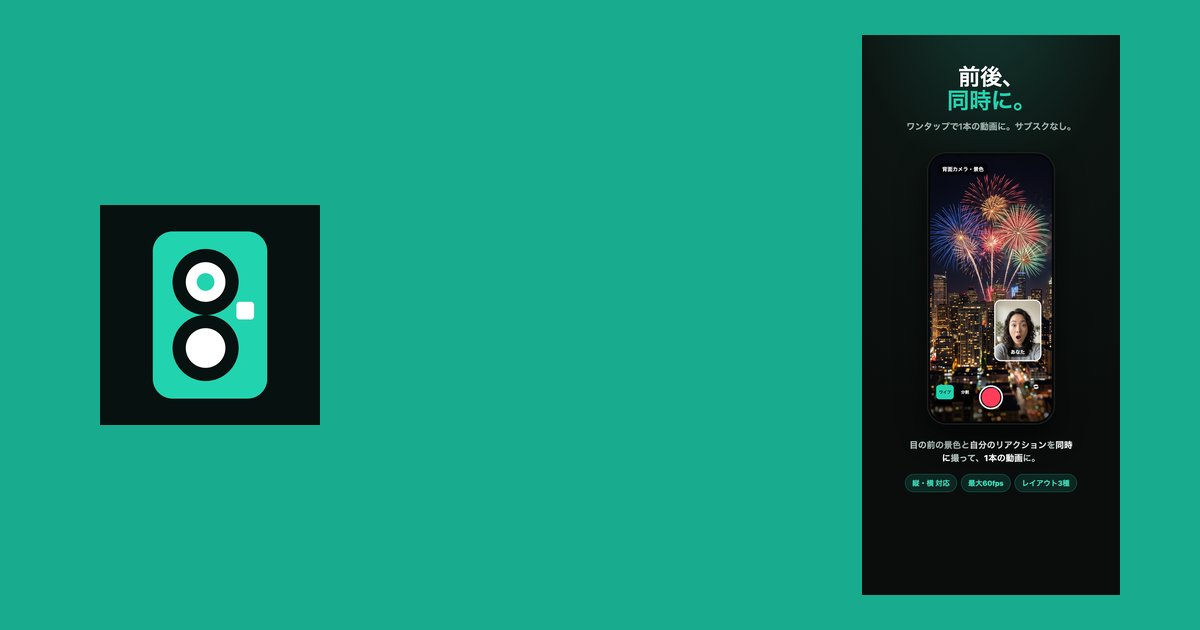
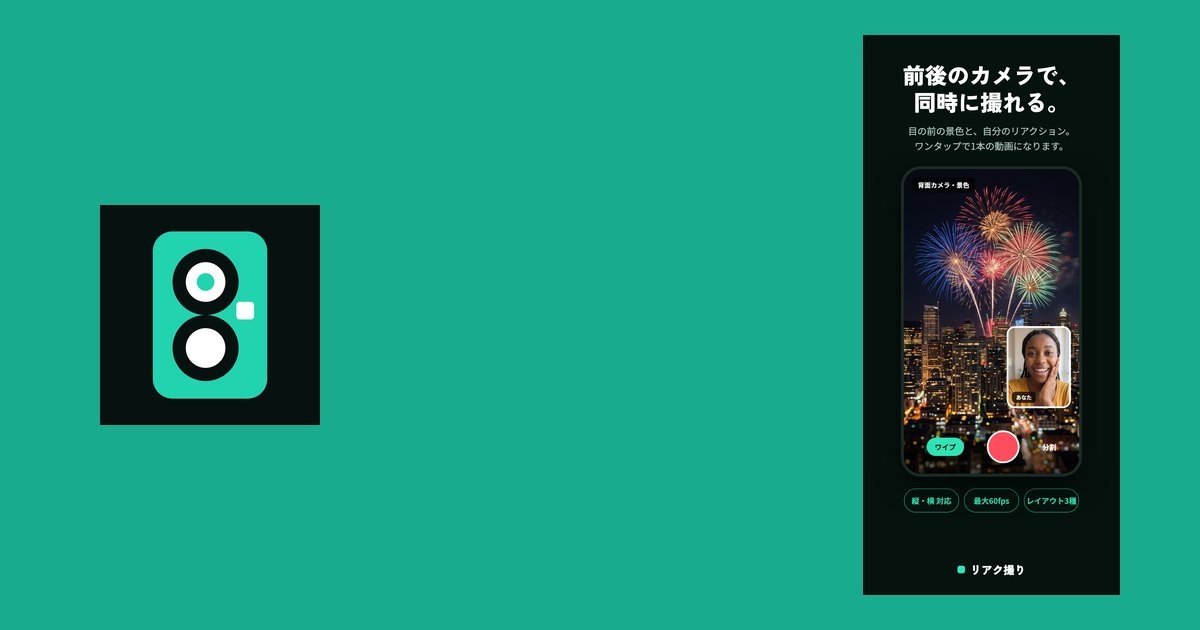
lp: 証明写真ぴったり／リアク撮り のストア掲載画像更新を反映

Changed region(s): [[0.74, 0.0302, 0.925, 0.8143], [0.8017, 0.8746, 0.8633, 0.9349]]

diff --git a/idphotofit/index.html b/idphotofit/index.html
@@ -1,0 +1,176 @@
+<!DOCTYPE html>
+<html lang="ja">
+<head>
+<meta charset="UTF-8">
+<meta name="viewport" content="width=device-width, initial-scale=1.0">
+<title>証明写真ぴったり｜iPhoneアプリ</title>
+<meta name="description" content="顔を自動で検出して、頭のてっぺんから顎までの長さと頭上の余白を、選んだサイズ規格に合わせて調整します。よく使う各種のサイズプリセットを収録。L判1枚に面付けしてコンビニでプリントできます。広告なし・買い切り・端末内で完結。">
+<link rel="canonical" href="https://madeinchimpanzee.github.io/app-legal/idphotofit/">
+<link rel="icon" href="img/icon.png">
+<link rel="apple-touch-icon" href="img/icon.png">
+<meta name="google-site-verification" content="sShjuGj1yH0nU52rMidScKj6U2jCQEzeScjimU436s0">
+<script defer src="https://static.cloudflareinsights.com/beacon.min.js" data-cf-beacon='{"token": "19cc6d39518c47219628c5f1152f72c9"}'></script>
+<meta property="og:type" content="website">
+<meta property="og:title" content="証明写真ぴったり｜iPhoneアプリ">
+<meta property="og:description" content="顔を自動で検出して、頭のてっぺんから顎までの長さと頭上の余白を、選んだサイズ規格に合わせて調整します。よく使う各種のサイズプリセットを収録。L判1枚に面付けしてコンビニでプリントできます。広告なし・買い切り・端末内で完結。">
+<meta property="og:url" content="https://madeinchimpanzee.github.io/app-legal/idphotofit/">
+<meta property="og:image" content="https://madeinchimpanzee.github.io/app-legal/idphotofit/img/og.jpg">
+<meta property="og:locale" content="ja_JP">
+<meta name="twitter:card" content="summary_large_image">
+<meta name="apple-itunes-app" content="app-id=6792667067">
+<script type="application/ld+json">{"@context": "https://schema.org", "@type": "SoftwareApplication", "name": "証明写真ぴったり", "operatingSystem": "iOS", "applicationCategory": "MobileApplication", "description": "顔を自動で検出して、頭のてっぺんから顎までの長さと頭上の余白を、選んだサイズ規格に合わせて調整します。よく使う各種のサイズプリセットを収録。L判1枚に面付けしてコンビニでプリントできます。広告なし・買い切り・端末内で完結。", "image": "https://madeinchimpanzee.github.io/app-legal/idphotofit/img/icon.png", "url": "https://madeinchimpanzee.github.io/app-legal/idphotofit/", "installUrl": "https://apps.apple.com/jp/app/id6792667067?ct=lp", "offers": {"@type": "Offer", "price": "0", "priceCurrency": "JPY"}, "author": {"@type": "Organization", "name": "MadeInChimpanzee"}}</script>
+<script type="application/ld+json">{"@context": "https://schema.org", "@type": "FAQPage", "mainEntity": [{"@type": "Question", "name": "料金はかかりますか？", "acceptedAnswer": {"@type": "Answer", "text": "無料"}}, {"@type": "Question", "name": "入力したデータはどこに保存されますか？", "acceptedAnswer": {"@type": "Answer", "text": "お使いの iPhone の中にのみ保存されます。アカウント登録もログインも不要です。"}}, {"@type": "Question", "name": "対応機種は？", "acceptedAnswer": {"@type": "Answer", "text": "iPhone（App Store から入手）。"}}, {"@type": "Question", "name": "問い合わせ先は？", "acceptedAnswer": {"@type": "Answer", "text": "メール suportapps44@gmail.com までご連絡ください。"}}]}</script>
+<style>
+:root{--accent:#0056CB;--accent-dark:#00439E;--accent-tint:#E0EAF8;--ink:#1F2430;--muted:#5F6673;--line:#E6E8EC;--bg:#FFFFFF}
+*{box-sizing:border-box;margin:0;padding:0}
+html{scroll-behavior:smooth}
+body{font-family:-apple-system,BlinkMacSystemFont,"Hiragino Sans","Hiragino Kaku Gothic ProN","Noto Sans JP",sans-serif;color:var(--ink);background:var(--bg);line-height:1.8;-webkit-font-smoothing:antialiased}
+a{color:var(--accent-dark)}
+.wrap{max-width:960px;margin:0 auto;padding:0 20px}
+header.top{position:sticky;top:0;background:rgba(255,255,255,.92);backdrop-filter:saturate(180%) blur(12px);border-bottom:1px solid var(--line);z-index:10}
+header.top .wrap{display:flex;align-items:center;gap:12px;height:60px}
+header.top img{width:36px;height:36px;border-radius:9px}
+header.top .name{font-weight:700;font-size:15px;flex:1;white-space:nowrap;overflow:hidden;text-overflow:ellipsis}
+.btn{display:inline-flex;align-items:center;gap:8px;background:var(--accent);color:#fff;text-decoration:none;font-weight:700;padding:10px 18px;border-radius:999px;font-size:14px;box-shadow:0 8px 20px -10px var(--accent)}
+.btn:hover{background:var(--accent-dark)}
+.btn svg{width:16px;height:16px;fill:#fff}
+.hero{background:linear-gradient(180deg,var(--accent-tint),#fff 70%);padding:48px 0 32px}
+.hero .wrap{display:grid;grid-template-columns:1.1fr .9fr;gap:36px;align-items:center}
+.hero .icon{width:96px;height:96px;border-radius:22px;box-shadow:0 12px 30px -12px rgba(0,0,0,.35);margin-bottom:18px}
+.hero h1{font-size:30px;line-height:1.35;letter-spacing:.01em;margin-bottom:8px}
+.hero .sub{color:var(--accent-dark);font-weight:700;font-size:17px;margin-bottom:16px}
+.hero .lead{color:var(--muted);font-size:15px;margin-bottom:22px}
+.hero .price{font-size:13px;color:var(--muted);margin-top:12px}
+.hero .phone{justify-self:center;width:min(300px,80vw);border-radius:36px;overflow:hidden;box-shadow:0 30px 60px -28px rgba(0,0,0,.45);border:6px solid #23242A;background:#23242A}
+.hero .phone img{display:block;width:100%}
+section{padding:40px 0}
+section h2{font-size:22px;margin-bottom:18px;padding-left:14px;border-left:5px solid var(--accent);line-height:1.4}
+.cards{display:grid;grid-template-columns:repeat(auto-fit,minmax(260px,1fr));gap:14px}
+.card{background:#fff;border:1px solid var(--line);border-radius:16px;padding:18px 18px 16px;box-shadow:0 6px 18px -12px rgba(0,0,0,.18)}
+.card h3{font-size:16px;margin-bottom:6px;color:var(--accent-dark)}
+.card p{font-size:14px;color:var(--muted)}
+.shots{display:flex;gap:16px;overflow-x:auto;padding:8px 4px 18px;scroll-snap-type:x mandatory;-webkit-overflow-scrolling:touch}
+.shot{flex:0 0 auto;width:220px;scroll-snap-align:start;border-radius:22px;overflow:hidden;box-shadow:0 14px 30px -18px rgba(0,0,0,.45);border:1px solid var(--line)}
+.shot img{display:block;width:100%;height:auto}
+.detail{background:#FAFBFC;border-radius:18px;padding:22px 22px 8px;border:1px solid var(--line)}
+.detail h2{font-size:18px;margin:22px 0 10px;border:0;padding:0;color:var(--accent-dark)}
+.detail h2:first-child{margin-top:0}
+.detail h3{font-size:15px;margin:14px 0 4px}
+.detail p,.detail li{font-size:14.5px;color:#333;margin-bottom:10px}
+.detail ul{padding-left:1.3em;margin-bottom:10px}
+.detail .note{font-size:12.5px;color:var(--muted)}
+details{border-bottom:1px solid var(--line);padding:12px 4px}
+summary{cursor:pointer;font-weight:700;font-size:15px;list-style:none;display:flex;justify-content:space-between;align-items:center}
+summary::after{content:"＋";color:var(--accent);font-weight:400}
+details[open] summary::after{content:"－"}
+details p{font-size:14px;color:var(--muted);padding:8px 0 4px}
+.cta{background:var(--accent-tint);border-radius:22px;padding:34px 22px;text-align:center}
+.cta h2{border:0;padding:0;display:block;margin-bottom:10px;font-size:22px}
+.cta p{color:var(--muted);font-size:14px;margin-bottom:18px}
+.kw{display:flex;flex-wrap:wrap;gap:6px;margin-top:14px}
+.kw span{font-size:11.5px;color:var(--muted);background:#F1F3F6;border-radius:999px;padding:3px 10px}
+footer{border-top:1px solid var(--line);padding:26px 0 40px;font-size:13px;color:var(--muted)}
+footer .links a{margin-right:14px}
+footer .notice{font-size:11.5px;margin-top:10px}
+@media (max-width:720px){
+  .hero{padding:30px 0 20px}
+  .hero .wrap{grid-template-columns:1fr;gap:26px}
+  .hero h1{font-size:24px}
+  .hero .phone{width:min(260px,72vw)}
+  header.top .cta-top{display:none}
+}
+</style>
+</head>
+<body>
+<header class="top"><div class="wrap">
+  <img src="img/icon.png" alt="" width="36" height="36">
+  <span class="name">証明写真ぴったり</span>
+  <a class="btn cta-top" href="https://apps.apple.com/jp/app/id6792667067?ct=lp" rel="noopener">App Store で見る</a>
+</div></header>
+
+<section class="hero"><div class="wrap">
+  <div>
+    <img class="icon" src="img/icon.png" alt="証明写真ぴったり のアイコン" width="96" height="96">
+    <h1>証明写真ぴったり</h1>
+    <p class="sub">規格ぴったりに自動調整、広告なし</p>
+    <p class="lead">顔を自動で検出して、頭のてっぺんから顎までの長さと頭上の余白を、選んだサイズ規格に合わせて調整します。よく使う各種のサイズプリセットを収録。L判1枚に面付けしてコンビニでプリントできます。広告なし・買い切り・端末内で完結。</p>
+    <a class="btn" href="https://apps.apple.com/jp/app/id6792667067?ct=lp" rel="noopener"><svg viewBox="0 0 24 24" aria-hidden="true"><path d="M16.7 12.6c0-2.6 2.1-3.8 2.2-3.9-1.2-1.8-3.1-2-3.7-2-1.6-.2-3.1.9-3.9.9-.8 0-2-.9-3.3-.9-1.7 0-3.3 1-4.2 2.5-1.8 3.1-.5 7.8 1.3 10.3.9 1.2 1.9 2.6 3.2 2.6 1.3-.1 1.8-.8 3.3-.8s2 .8 3.3.8c1.4 0 2.3-1.3 3.1-2.5 1-1.4 1.4-2.8 1.4-2.9-.1 0-2.7-1-2.7-4.1zM14.2 5c.7-.8 1.1-2 1-3.1-1 0-2.2.7-2.9 1.5-.6.7-1.2 1.9-1 3 1.1.1 2.2-.5 2.9-1.4z"/></svg>App Store からダウンロード</a>
+    <p class="price">無料</p>
+  </div>
+  <div class="phone"><img src="img/ss-03.jpg" alt="証明写真ぴったり の画面" width="540"></div>
+</div></section>
+
+<section><div class="wrap">
+  <h2>できること</h2>
+  <div class="cards">
+
+  </div>
+</div></section>
+
+<section><div class="wrap">
+  <h2>画面</h2>
+  <div class="shots">
+<figure class="shot"><img src="img/ss-01.jpg" alt="証明写真ぴったり の画面 1" loading="eager" width="540"></figure>
+<figure class="shot"><img src="img/ss-02.jpg" alt="証明写真ぴったり の画面 2" loading="lazy" width="540"></figure>
+<figure class="shot"><img src="img/ss-03.jpg" alt="証明写真ぴったり の画面 3" loading="lazy" width="540"></figure>
+<figure class="shot"><img src="img/ss-04.jpg" alt="証明写真ぴったり の画面 4" loading="lazy" width="540"></figure>
+<figure class="shot"><img src="img/ss-05.jpg" alt="証明写真ぴったり の画面 5" loading="lazy" width="540"></figure>
+<figure class="shot"><img src="img/ss-06.jpg" alt="証明写真ぴったり の画面 6" loading="lazy" width="540"></figure>
+<figure class="shot"><img src="img/ss-07.jpg" alt="証明写真ぴったり の画面 7" loading="lazy" width="540"></figure>
+  </div>
+</div></section>
+
+<section><div class="wrap">
+  <h2>詳しく</h2>
+  <div class="detail">
+<p>証明写真を、規格のサイズにきっちり合わせて印刷できるようにする写真調整アプリです。</p>
+<p>証明写真は、写真の寸法だけでなく「頭のてっぺんから顎までの長さ」「頭の上の余白」まで細かく決まっている場合があります。証明写真ぴったりは、顔を自動で検出して、選んだサイズプリセットが求める位置に写真を合わせます。頭のてっぺんと顎がどこと判定されたかを画面に線で表示するので、アプリが何を測っているのかが目で見えます。</p>
+<h2>できること</h2>
+<ul>
+<li>顔と頭のてっぺんを自動検出し、選んだサイズに合わせて自動でトリミング</li>
+<li>頭のてっぺん・顎の位置と、頭上の余白の許容範囲を画面に表示</li>
+<li>サイズに合っているかを常時チェック。ずれていれば「あと何ミリか」を表示</li>
+<li>1ミリ単位での位置調整と、顔の大きさの微調整</li>
+<li>背景を白・青・グレーに差し替え</li>
+<li>L判1枚に面付けして、コンビニのプリンタでそのまま印刷</li>
+</ul>
+<h2>収録しているサイズプリセット</h2>
+<p>一般的な証明写真／パスポート／履歴書／履歴書(小)／資格・受験／受験(小)／宅建試験／看護師国家試験 など</p>
+<h2>寸法の数値について</h2>
+<p>各サイズの寸法は、公表されている一般的な情報をもとにしています。数値の定めがない項目については、勝手に基準を作らず「規定なし」として扱い、代わりに実際に問われる要件をお伝えします。</p>
+<h2>安心して使えます</h2>
+<ul>
+<li>撮影・選択した写真は、すべて端末の中だけで処理します。外部に送信しません</li>
+<li>ログイン不要。アカウント登録もありません</li>
+<li>広告は一切表示しません</li>
+<li>買い切りです。月額料金はありません</li>
+</ul>
+<h2>ご注意</h2>
+<p>本アプリは、手持ちの写真を一般的な規格サイズに合わせて調整・印刷するための補助ツールです。証明写真の要件は提出先や時期によって異なる場合があります。提出前には必ず、提出先が公開している最新の要項をご確認ください。本アプリは提出先での受理を保証するものではありません。</p>
+  </div>
+</div></section>
+
+<section><div class="wrap">
+  <h2>よくある質問</h2>
+<details><summary>料金はかかりますか？</summary><p>無料</p></details>
+<details><summary>入力したデータはどこに保存されますか？</summary><p>お使いの iPhone の中にのみ保存されます。アカウント登録もログインも不要です。</p></details>
+<details><summary>対応機種は？</summary><p>iPhone（App Store から入手）。</p></details>
+<details><summary>問い合わせ先は？</summary><p>メール suportapps44@gmail.com までご連絡ください。</p></details>
+</div></section>
+
+<section><div class="wrap">
+  <div class="cta">
+    <h2>証明写真ぴったり を使ってみる</h2>
+    <p>無料</p>
+    <a class="btn" href="https://apps.apple.com/jp/app/id6792667067?ct=lp" rel="noopener">App Store からダウンロード</a>
+  </div>
+  <div class="kw"><span>証明写真</span> <span>履歴書</span> <span>パスポート</span> <span>宅建</span> <span>看護師</span> <span>写真</span> <span>サイズ</span> <span>規格</span> <span>就活</span> <span>受験</span> <span>トリミング</span> <span>背景</span></div>
+</div></section>
+
+<footer><div class="wrap">
+  <p class="links"><a href="privacy.html">プライバシーポリシー</a><a href="terms.html">利用規約</a><a href="support.html">サポート</a><a href="../apps/">アプリ一覧</a></p>
+  <p>© 2026 MadeInChimpanzee. Apple、App Store は Apple Inc. の商標です。</p>
+  <p class="notice">このページはアクセス数の把握のため Cloudflare Web Analytics を利用しています（閲覧ページ・参照元・おおよその地域などが送信されます。個人を特定する情報は含みません）。</p>
+</div></footer>
+</body>
+</html>

diff --git a/reacdori/index.html b/reacdori/index.html
@@ -19,7 +19,7 @@
 <meta name="twitter:card" content="summary_large_image">
 <meta name="apple-itunes-app" content="app-id=6788761561">
 <script type="application/ld+json">{"@context": "https://schema.org", "@type": "SoftwareApplication", "name": "リアク撮り 前後カメラ同時録画", "operatingSystem": "iOS", "applicationCategory": "MobileApplication", "description": "前後カメラを同時録画して1本の動画に。基本無料・サブスクなし。買い切りで時間無制限＋「動画にリアクション」。", "image": "https://madeinchimpanzee.github.io/app-legal/reacdori/img/icon.png", "url": "https://madeinchimpanzee.github.io/app-legal/reacdori/", "installUrl": "https://apps.apple.com/jp/app/id6788761561?ct=lp", "offers": {"@type": "Offer", "price": "0", "priceCurrency": "JPY"}, "author": {"@type": "Organization", "name": "MadeInChimpanzee"}}</script>
-<script type="application/ld+json">{"@context": "https://schema.org", "@type": "FAQPage", "mainEntity": [{"@type": "Question", "name": "料金はかかりますか？", "acceptedAnswer": {"@type": "Answer", "text": "買い切り ¥600（サブスクではありません）。"}}, {"@type": "Question", "name": "入力したデータはどこに保存されますか？", "acceptedAnswer": {"@type": "Answer", "text": "お使いの iPhone の中にのみ保存されます。アカウント登録もログインも不要です。"}}, {"@type": "Question", "name": "対応機種は？", "acceptedAnswer": {"@type": "Answer", "text": "iPhone（App Store から入手）。"}}, {"@type": "Question", "name": "問い合わせ先は？", "acceptedAnswer": {"@type": "Answer", "text": "メール suportapps44@gmail.com までご連絡ください。"}}]}</script>
+<script type="application/ld+json">{"@context": "https://schema.org", "@type": "FAQPage", "mainEntity": [{"@type": "Question", "name": "料金はかかりますか？", "acceptedAnswer": {"@type": "Answer", "text": "無料"}}, {"@type": "Question", "name": "入力したデータはどこに保存されますか？", "acceptedAnswer": {"@type": "Answer", "text": "お使いの iPhone の中にのみ保存されます。アカウント登録もログインも不要です。"}}, {"@type": "Question", "name": "対応機種は？", "acceptedAnswer": {"@type": "Answer", "text": "iPhone（App Store から入手）。"}}, {"@type": "Question", "name": "問い合わせ先は？", "acceptedAnswer": {"@type": "Answer", "text": "メール suportapps44@gmail.com までご連絡ください。"}}]}</script>
 <style>
 :root{--accent:#19AB8E;--accent-dark:#13856E;--accent-tint:#E3F4F1;--ink:#1F2430;--muted:#5F6673;--line:#E6E8EC;--bg:#FFFFFF}
 *{box-sizing:border-box;margin:0;padding:0}
@@ -95,7 +95,7 @@ footer .notice{font-size:11.5px;margin-top:10px}
     <p class="sub">両面をワイプ・分割で撮影／買い切り広告なし</p>
     <p class="lead">前後カメラを同時録画して1本の動画に。基本無料・サブスクなし。買い切りで時間無制限＋「動画にリアクション」。</p>
     <a class="btn" href="https://apps.apple.com/jp/app/id6788761561?ct=lp" rel="noopener"><svg viewBox="0 0 24 24" aria-hidden="true"><path d="M16.7 12.6c0-2.6 2.1-3.8 2.2-3.9-1.2-1.8-3.1-2-3.7-2-1.6-.2-3.1.9-3.9.9-.8 0-2-.9-3.3-.9-1.7 0-3.3 1-4.2 2.5-1.8 3.1-.5 7.8 1.3 10.3.9 1.2 1.9 2.6 3.2 2.6 1.3-.1 1.8-.8 3.3-.8s2 .8 3.3.8c1.4 0 2.3-1.3 3.1-2.5 1-1.4 1.4-2.8 1.4-2.9-.1 0-2.7-1-2.7-4.1zM14.2 5c.7-.8 1.1-2 1-3.1-1 0-2.2.7-2.9 1.5-.6.7-1.2 1.9-1 3 1.1.1 2.2-.5 2.9-1.4z"/></svg>App Store からダウンロード</a>
-    <p class="price">買い切り ¥600（サブスクではありません）。</p>
+    <p class="price">無料</p>
   </div>
   <div class="phone"><img src="img/ss-01.jpg" alt="リアク撮り の画面" width="540"></div>
 </div></section>
@@ -103,7 +103,8 @@ footer .notice{font-size:11.5px;margin-top:10px}
 <section><div class="wrap">
   <h2>できること</h2>
   <div class="cards">
-
+<div class="card"><h3>無料</h3><p>すべてのレイアウトと60fpsが使えます。1本2分まで・右下に小さな透かし</p></div>
+<div class="card"><h3>買い切り</h3><p>録画時間の上限なし・透かしなし・動画にリアクション。一度の購入でずっと</p></div>
   </div>
 </div></section>
 
@@ -123,27 +124,35 @@ footer .notice{font-size:11.5px;margin-top:10px}
 <p>前後のカメラを同時に録画して、1本の動画に。基本無料。</p>
 <p>リアク撮りは、目の前の景色と自分のリアクションを同時に撮影。決定的な瞬間を逃しません。ワンタップで1本の動画に。サブスクは一切なし。</p>
 <p>リアク撮りの特長</p>
-<p>- 前後カメラを同時録画して1本の動画に</p>
-<p>- 無料で使えます。解放は買い切り1回だけ。サブスクなし・広告なし・アカウント不要</p>
-<p>- 録画はすべて端末の中で処理され、外部に送信されません</p>
+<ul>
+<li>前後カメラを同時録画して1本の動画に</li>
+<li>無料で使えます。解放は買い切り1回だけ。サブスクなし・広告なし・アカウント不要</li>
+<li>録画はすべて端末の中で処理され、外部に送信されません</li>
+</ul>
 <p>レイアウト</p>
-<p>- ワイプ（背面フル＋自分を小窓）</p>
-<p>- 上下分割</p>
-<p>- 左右分割</p>
+<ul>
+<li>ワイプ（背面フル＋自分を小窓）</li>
+<li>上下分割</li>
+<li>左右分割</li>
+</ul>
 <p>ワンタップで切り替えできます。</p>
 <p>自由にカスタマイズ</p>
-<p>- 小窓をドラッグで自由に移動</p>
-<p>- ピンチで拡大・縮小</p>
-<p>- 角丸と丸から形を選択</p>
-<p>- メインと小窓のカメラを入れ替え</p>
+<ul>
+<li>小窓をドラッグで自由に移動</li>
+<li>ピンチで拡大・縮小</li>
+<li>角丸と丸から形を選択</li>
+<li>メインと小窓のカメラを入れ替え</li>
+</ul>
 <p>縦でも横でも</p>
 <p>どの向きで持っても画面いっぱい。縦も横も、最大60fpsで撮影できます。</p>
 <p>動画にリアクション（買い切り特典）</p>
 <p>ライブラリの動画をメイン枠で再生しながら、あなたのリアクションを前面カメラで録画。元動画の音声とあなたの声を1本にまとめて書き出します。リアクション動画がこのアプリだけで作れます。</p>
 <p>無料と買い切りの違い</p>
-<p>- 無料：すべてのレイアウトと60fpsが使えます。1本2分まで・右下に小さな透かし</p>
-<p>- 買い切り：録画時間の上限なし・透かしなし・動画にリアクション。一度の購入でずっと</p>
-<p>- 1.0 を購入された方は、そのまますべてお使いいただけます（「購入を復元」）</p>
+<ul>
+<li>無料：すべてのレイアウトと60fpsが使えます。1本2分まで・右下に小さな透かし</li>
+<li>買い切り：録画時間の上限なし・透かしなし・動画にリアクション。一度の購入でずっと</li>
+<li>1.0 を購入された方は、そのまますべてお使いいただけます（「購入を復元」）</li>
+</ul>
 <p>リアクション動画、Vlog、旅行、グルメ、ペット、レビューなどにぴったりです。</p>
 <p>対応環境</p>
 <p>前後カメラの同時録画は iPhone XS 以降（A12 Bionic 以降）で利用できます。</p>
@@ -152,7 +161,7 @@ footer .notice{font-size:11.5px;margin-top:10px}
 
 <section><div class="wrap">
   <h2>よくある質問</h2>
-<details><summary>料金はかかりますか？</summary><p>買い切り ¥600（サブスクではありません）。</p></details>
+<details><summary>料金はかかりますか？</summary><p>無料</p></details>
 <details><summary>入力したデータはどこに保存されますか？</summary><p>お使いの iPhone の中にのみ保存されます。アカウント登録もログインも不要です。</p></details>
 <details><summary>対応機種は？</summary><p>iPhone（App Store から入手）。</p></details>
 <details><summary>問い合わせ先は？</summary><p>メール suportapps44@gmail.com までご連絡ください。</p></details>
@@ -161,7 +170,7 @@ footer .notice{font-size:11.5px;margin-top:10px}
 <section><div class="wrap">
   <div class="cta">
     <h2>リアク撮り を使ってみる</h2>
-    <p>買い切り ¥600（サブスクではありません）。</p>
+    <p>無料</p>
     <a class="btn" href="https://apps.apple.com/jp/app/id6788761561?ct=lp" rel="noopener">App Store からダウンロード</a>
   </div>
   <div class="kw"><span>リアクション動画</span> <span>インカメ</span> <span>自撮り</span> <span>二画面</span> <span>縦横</span> <span>60fps</span> <span>デュアルカメラ</span> <span>PinP</span> <span>セルフィー</span> <span>ピクチャーインピクチャー</span> <span>vlog</span> <span>二重録画</span></div>

diff --git a/apps/index.html b/apps/index.html
@@ -82,6 +82,7 @@ footer{margin-top:30px;font-size:12.5px;color:#5F6673}
 <li><a href="../kinkyaba/"><img src="../kinkyaba/img/icon.png" alt="" width="56" height="56"><span><strong>禁キャバS キャバクラ通いをやめる節約カウンター</strong><small>断ち日数を記録して継続、浮いたお金も見える化</small></span></a></li>
 <li><a href="../kinpachis/"><img src="../kinpachis/img/icon.png" alt="" width="56" height="56"><span><strong>禁パチS 禁パチンコ・パチスロやめる日数カウンター</strong><small>ギャンブル禁止・依存症対策 守ったお金と日数を記録</small></span></a></li>
 <li><a href="../ietanote/"><img src="../ietanote/img/icon.png" alt="" width="56" height="56"><span><strong>言えたノート 英会話レッスンの言い間違い復習</strong><small>オンライン英会話を録音つきで訂正・言い直し</small></span></a></li>
+<li><a href="../idphotofit/"><img src="../idphotofit/img/icon.png" alt="" width="56" height="56"><span><strong>証明写真ぴったり</strong><small>規格ぴったりに自動調整、広告なし</small></span></a></li>
 <li><a href="../cooldownshelf/"><img src="../cooldownshelf/img/icon.png" alt="" width="56" height="56"><span><strong>買い物ブレーキ 衝動買い・浪費対策</strong><small>買う前に一拍、無駄遣いと後悔を減らす</small></span></a></li>
 <li><a href="../taishokuhp/"><img src="../taishokuhp/img/icon.png" alt="" width="56" height="56"><span><strong>転職まったなしゲージ</strong><small>嫌なことで満タン、転職まったなし</small></span></a></li>
 <li><a href="../taikyocheck/"><img src="../taikyocheck/img/icon.png" alt="" width="56" height="56"><span><strong>退去費用チェッカー 敷金・原状回復・賃貸の相場診断</strong><small>その請求、妥当？交渉と減額を後押し</small></span></a></li>
